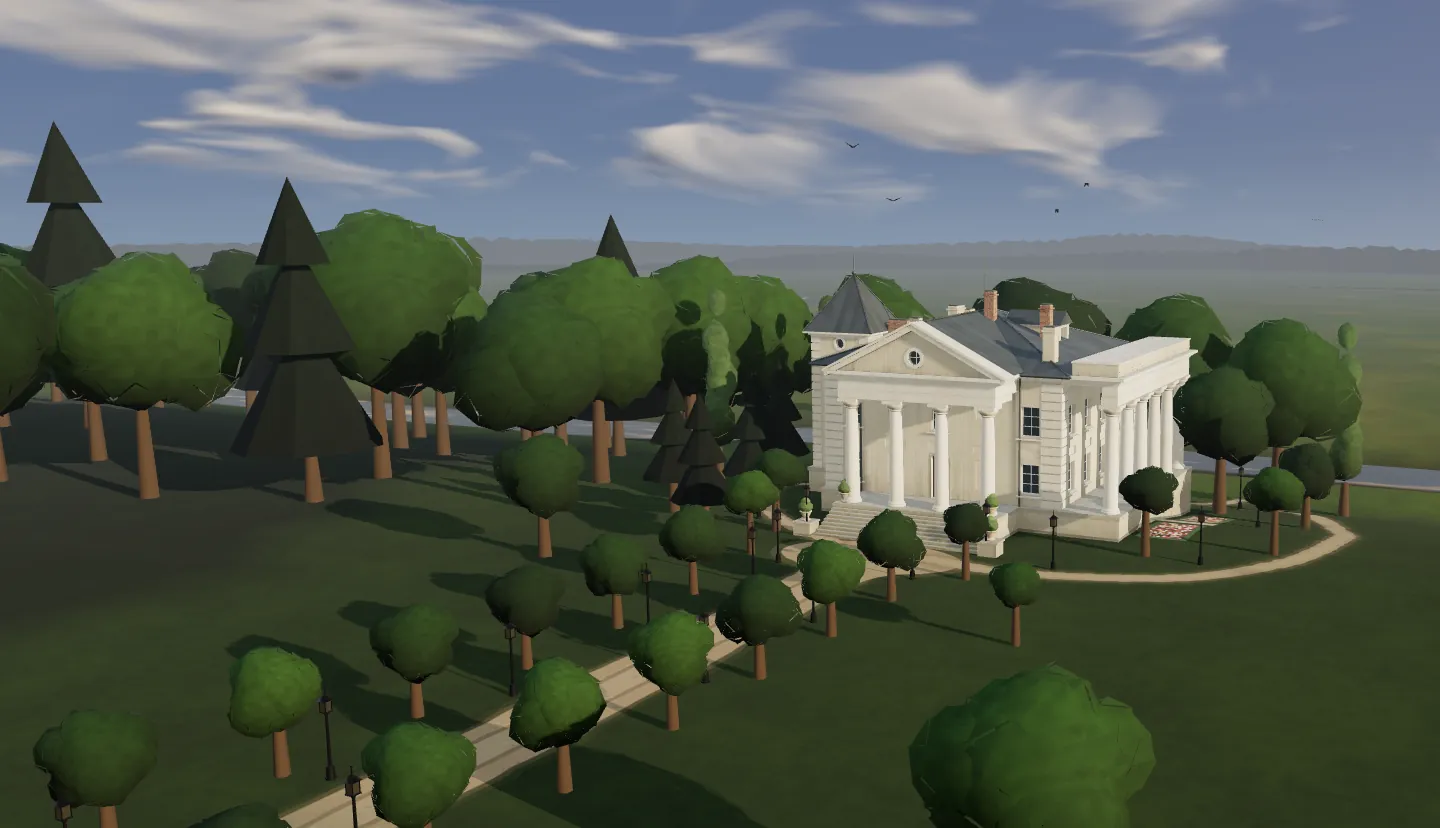
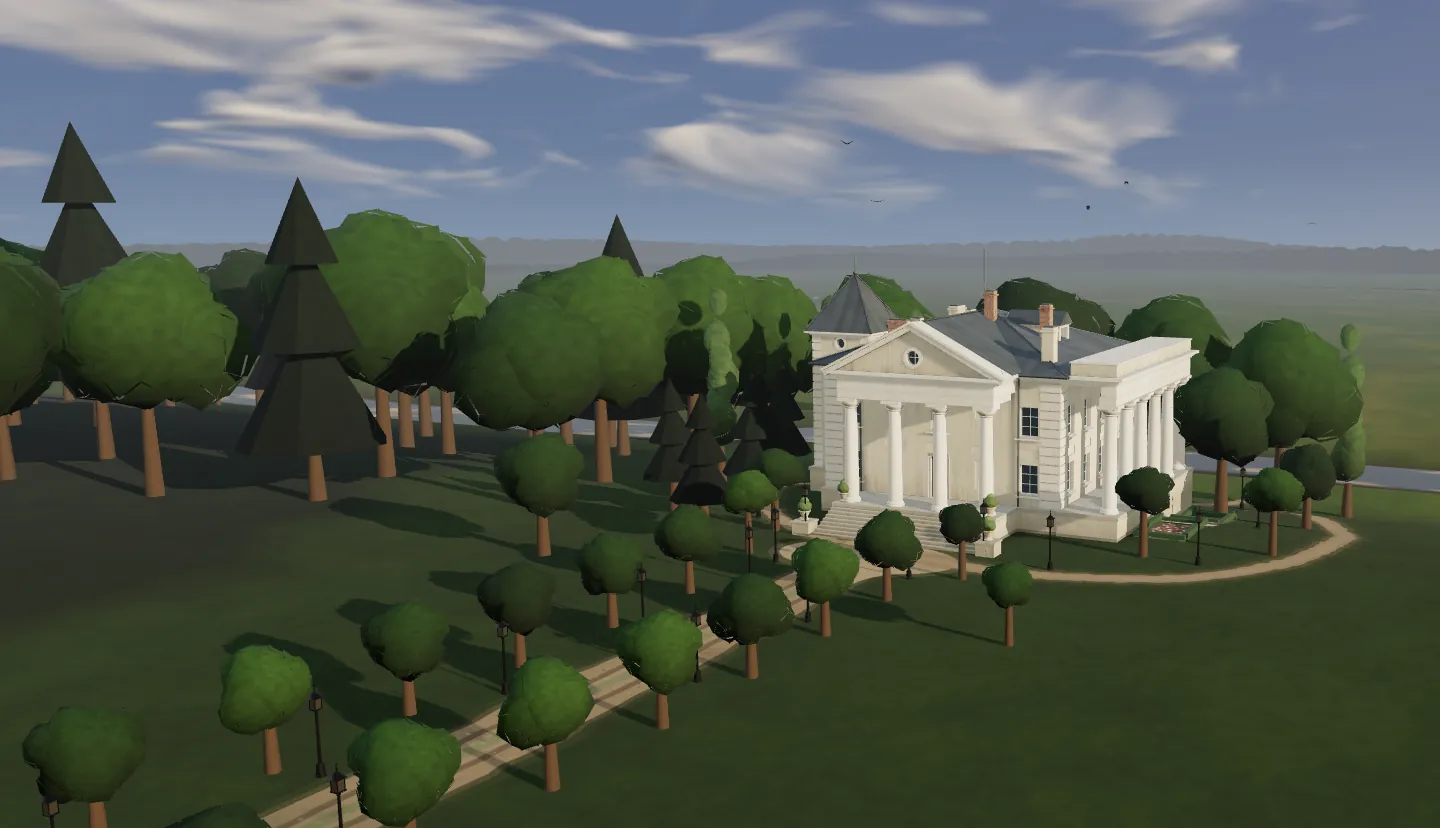
Обкладинка: ніч без прожекторів, ґрунтова алея, квітник у бордюрі з букса, тіні хмар на луках, вільний передній план
- ніч: замість прожекторів на фасаді — вікна, ліхтар під портиком і тьмяніші теплі ліхтарі алеї (олійні, 1914)
- алея: темніша ґрунтова дорога з колією й травою посередині
- квітник: низький бордюр із букса, приглушені пізні кольори
- тіні хмар пливуть луками вдень
- прибрано крону, що на першому кадрі сідала на підпис
- «Новинка · 3D-модель» → «3D-реконструкція»; підпис без висячого «років»; підказка «Потягніть» контрастніша
- нові постери день / вечір / ніч

Claude-Session: https://claude.ai/code/session_015E5VkhKKERkWtXctkqCkmF

diff --git a/hero-worobin.js b/hero-worobin.js
@@ -90,9 +90,9 @@ function attach(api, o){
   /* surface detail: grass tussocks, bare patches and furrows drawn from world position, fading with distance */
   terrM.userData.noSnow = true;
   terrM.onBeforeCompile = function(sh){
-    sh.uniforms.uWSnow = U.uWSnow; sh.uniforms.uAut = U.uAut;
+    sh.uniforms.uWSnow = U.uWSnow; sh.uniforms.uAut = U.uAut; sh.uniforms.uTime = U.uTime; sh.uniforms.uGlint = U.uGlint;
     sh.vertexShader = sh.vertexShader.replace('#include <common>', '#include <common>\nvarying vec3 vTW;').replace('#include <worldpos_vertex>', '#include <worldpos_vertex>\nvTW = (modelMatrix*vec4(transformed, 1.0)).xyz;');
-    sh.fragmentShader = sh.fragmentShader.replace('#include <common>', '#include <common>\nvarying vec3 vTW;\nuniform float uWSnow, uAut;\nfloat th(vec2 p){ return fract(sin(dot(p, vec2(127.1, 311.7)))*43758.5453); }\nfloat tn(vec2 p){ vec2 i = floor(p), f = fract(p); f = f*f*(3.0 - 2.0*f); return mix(mix(th(i), th(i + vec2(1, 0)), f.x), mix(th(i + vec2(0, 1)), th(i + vec2(1, 1)), f.x), f.y); }')
+    sh.fragmentShader = sh.fragmentShader.replace('#include <common>', '#include <common>\nvarying vec3 vTW;\nuniform float uWSnow, uAut, uTime, uGlint;\nfloat th(vec2 p){ return fract(sin(dot(p, vec2(127.1, 311.7)))*43758.5453); }\nfloat tn(vec2 p){ vec2 i = floor(p), f = fract(p); f = f*f*(3.0 - 2.0*f); return mix(mix(th(i), th(i + vec2(1, 0)), f.x), mix(th(i + vec2(0, 1)), th(i + vec2(1, 1)), f.x), f.y); }')
       .replace('#include <normal_fragment_maps>', '#include <normal_fragment_maps>\n{ float dn = length(vTW - cameraPosition); float kk = (1.0 - smoothstep(12.0, 70.0, dn))*.12; vec2 q = vTW.xz*2.4; float a0 = tn(q), ax = tn(q + vec2(.15, 0.0)), az = tn(q + vec2(0.0, .15)); normal = normalize(normal + (viewMatrix*vec4((a0 - ax)*kk*6.0, 0.0, (a0 - az)*kk*6.0, 0.0)).xyz); }')
       .replace('#include <color_fragment>', ['#include <color_fragment>',
         'float dd = length(vTW - cameraPosition), fd = 1.0 - smoothstep(60.0, 260.0, dd);',
@@ -107,7 +107,10 @@ function attach(api, o){
         /* autumn: the grass goes to straw and rust; winter: snow lies everywhere but thins in the furrows and under the trees */
         'diffuseColor.rgb = mix(diffuseColor.rgb, diffuseColor.rgb*vec3(1.42, 1.0, .5) + vec3(.014, .004, 0.0), uAut*(.68 + .32*g3));',
         'float snw = uWSnow*smoothstep(.12, .42, g1*.45 + g3*.55 + .12 - field*fur*.12);',
-        'diffuseColor.rgb = mix(diffuseColor.rgb, vec3(.80, .83, .88)*(.93 + .1*g2), snw);'].join('\n'));
+        'diffuseColor.rgb = mix(diffuseColor.rgb, vec3(.80, .83, .88)*(.93 + .1*g2), snw);',
+        /* shadows of the clouds drifting over the meadows and fields (by day only): the land is never one even green */
+        'float cl = tn(vTW.xz*.011 + vec2(uTime*.0045, uTime*.002))*.65 + tn(vTW.xz*.027 + vec2(uTime*.007, 0.0))*.35;',
+        'diffuseColor.rgb *= 1.0 - .26*uGlint*smoothstep(.52, .74, cl)*smoothstep(20.0, 45.0, length(vTW.xz - vec2(-3.4, -.4)));'].join('\n'));
   };
   var terrain = new T.Mesh(tg, terrM); terrain.receiveShadow = true; scene.add(terrain);
 
@@ -125,8 +128,9 @@ function attach(api, o){
     function line(pts, w, colr, jit){ K.save(); K.lineCap = K.lineJoin = 'round'; K.strokeStyle = colr; K.lineWidth = w*px; K.beginPath();
       pts.forEach(function(q, i){ var jx = jit ? (hash(q[0]*3.1, q[1]*1.7) - .5)*jit : 0, jz = jit ? (hash(q[1]*2.3, q[0]*4.1) - .5)*jit : 0; i ? K.lineTo(X(q[0] + jx), Z(q[1] + jz)) : K.moveTo(X(q[0] + jx), Z(q[1] + jz)); }); K.stroke(); K.restore(); }
     function path(pts, w, ruts){ var c = curve(pts);
-      line(c, w + 1.3, 'rgba(92,80,52,.16)', .5); line(c, w + .6, 'rgba(110,92,62,.4)', .35); line(c, w, '#8d7856', .2); line(c, w*.55, 'rgba(160,140,106,.35)');
-      if (ruts) [-1, 1].forEach(function(sd){ line(c.map(function(q){ return [q[0], q[1] + sd*w*.22]; }), .32, 'rgba(84,68,46,.45)', .15); }); }
+      line(c, w + 1.6, 'rgba(92,80,52,.14)', .7); line(c, w + .7, 'rgba(104,88,58,.38)', .45); line(c, w, '#7c6849', .3); line(c, w*.55, 'rgba(146,126,94,.3)');
+      if (ruts){ [-1, 1].forEach(function(sd){ line(c.map(function(q){ return [q[0], q[1] + sd*w*.22]; }), .42, 'rgba(70,56,38,.55)', .15); });
+        line(c, w*.16, 'rgba(92,104,58,.55)', .12); } }                                // grass between the wheel tracks
     path([[-72, 0], [-45.5, 0], [-19, 0]], 4.2, true);                                            // the drive from the road, between the limes
     K.fillStyle = 'rgba(105,88,60,.35)'; K.beginPath(); K.ellipse(X(-18.4), Z(0), 4.1*px, 6.5*px, 0, 0, 6.283); K.fill();
     K.fillStyle = '#8d7856'; K.beginPath(); K.ellipse(X(-18.4), Z(0), 3.4*px, 5.8*px, 0, 0, 6.283); K.fill();
@@ -141,7 +145,7 @@ function attach(api, o){
       rg2.addColorStop(0, Math.random() < .5 ? 'rgba(80,90,50,.28)' : 'rgba(70,56,38,.22)'); rg2.addColorStop(1, 'rgba(0,0,0,0)'); K.fillStyle = rg2; K.fillRect(px2 - pr, pz2 - pr, pr*2, pr*2); }
     K.restore();
     function bed(x0, z0, x1, z1){ K.fillStyle = '#5a4430'; K.fillRect(X(x0), Z(z0), (x1 - x0)*px, (z1 - z0)*px);
-      ['#c9563f', '#e3c26a', '#efe6d4', '#b8506e'].forEach(function(c){ K.fillStyle = c; for (var i = 0; i < 70; i++){ K.beginPath(); K.arc(X(x0 + .3 + Math.random()*(x1 - x0 - .6)), Z(z0 + .3 + Math.random()*(z1 - z0 - .6)), (.06 + Math.random()*.06)*px, 0, 6.283); K.fill(); } });
+      ['#a65a44', '#c4a35c', '#d8cfbb', '#94586a'].forEach(function(c){ K.fillStyle = c; for (var i = 0; i < 34; i++){ K.beginPath(); K.arc(X(x0 + .3 + Math.random()*(x1 - x0 - .6)), Z(z0 + .3 + Math.random()*(z1 - z0 - .6)), (.06 + Math.random()*.06)*px, 0, 6.283); K.fill(); } });
       K.strokeStyle = '#3f5a2c'; K.lineWidth = .32*px; K.strokeRect(X(x0), Z(z0), (x1 - x0)*px, (z1 - z0)*px); }
     K.fillStyle = '#a5946f'; K.fillRect(X(-1), Z(12.4), 2*px, 4.2*px); bed(-7, 13.2, -1.6, 16.2); bed(1.6, 13.2, 7, 16.2);
     K.save(); K.globalCompositeOperation = 'destination-in';                          // soft outer edge
@@ -152,6 +156,18 @@ function attach(api, o){
     var t = new T.CanvasTexture(cv); t.encoding = T.sRGBEncoding; t.anisotropy = 8;
     var m = new T.Mesh(g, new T.MeshStandardMaterial({map: t, transparent: true, depthWrite: false, roughness: 1, polygonOffset: true, polygonOffsetFactor: -2, polygonOffsetUnits: -2}));
     m.receiveShadow = true; m.renderOrder = 1; scene.add(m);
+  })();
+
+  /* the parterre before the colonnade is edged with low clipped box, so the beds stand up from the lawn instead of lying on it like a rug */
+  (function(){
+    var boxM = new T.MeshStandardMaterial({color: '#34492a', roughness: .95}), parts = [];
+    [[-7, 13.2, -1.6, 16.2], [1.6, 13.2, 7, 16.2]].forEach(function(b){
+      [[b[0], b[1], b[2], b[1]], [b[0], b[3], b[2], b[3]], [b[0], b[1], b[0], b[3]], [b[2], b[1], b[2], b[3]]].forEach(function(e){
+        var len = Math.hypot(e[2] - e[0], e[3] - e[1]) + .34, g = new T.BoxGeometry(e[1] === e[3] ? len : .34, .42, e[1] === e[3] ? .34 : len);
+        var cx = (e[0] + e[2])/2, cz = (e[1] + e[3])/2; g.translate(cx, H(cx, cz) + .2, cz); parts.push(g.index ? g.toNonIndexed() : g); }); });
+    var P = [], N = []; parts.forEach(function(g){ P.push.apply(P, g.attributes.position.array); N.push.apply(N, g.attributes.normal.array); });
+    var g2 = new T.BufferGeometry(); g2.setAttribute('position', new T.Float32BufferAttribute(P, 3)); g2.setAttribute('normal', new T.Float32BufferAttribute(N, 3));
+    var hedge = new T.Mesh(g2, boxM); hedge.castShadow = hedge.receiveShadow = true; scene.add(hedge);
   })();
 
   /* ── water: the Horyn and the ponds; ripples drift downstream (north), the sky glints off them ── */
@@ -285,6 +301,8 @@ function attach(api, o){
     var ddx = x2 - GX, ddz = z2 - GZ, lawnSide = (ddx < 0 && ddz > -30 && rh < 150) || (ddz > 0 && rh < 120);   // the open lawn the camera looks across
     var oldK = pk && rh < 200 && !lawnSide ? 2.15 + .5*rnd() : pk && !lawnSide ? 1.5 : 1;
     if (oldK > 2 && rnd() < .3) continue;                                            // bigger crowns, a few fewer of them
+    var cdx = x2 + 88, cdz = z2 - 37, along = cdx*.915 - cdz*.402, side = cdx*.402 + cdz*.915;   // the first view: from (−88, 37) toward the house
+    if (along > 0 && along < 58 && side > -4 && side < 26) continue;                 // keep the near lawn clear, so no crown sits on the caption
     add(rnd() < (pk ? .18 : .3) ? 'cone' : 'blob', x2, z2, (1.7 + rnd()*1.2)*Math.min(1.8, .75 + .25*big)*oldK, pk ? 1 : 0);
   }
   /* hedgerows and lone trees on the fields and meadows */
@@ -318,7 +336,7 @@ function attach(api, o){
   /* ── lanterns along the drive and round the forecourt: cast-iron posts with glazed lantern heads. At night every lantern,
      and every lit window of the house, really lights what is round it: a small light loop in the shaders of the ground, the trees,
      the paths and the house adds a warm, quickly fading light from each of them (no shadow maps, so it stays cheap) ── */
-  var LAMPC = {value: lin('#ffd09a')}, LAMPK = {value: 0}, LAMPP = [], lampsK = 0;
+  var LAMPC = {value: lin('#ffc27e')}, LAMPK = {value: 0}, LAMPP = [], lampsK = 0;
   var lanterns = (function(){
     var P = [];
     for (var lx = -26; lx >= -64; lx -= 9.5){ P.push([lx, -3.3]); P.push([lx - 4.75, 3.3]); }
@@ -350,7 +368,7 @@ function attach(api, o){
     var coreM = new T.PointsMaterial({map: halo([[0, 'rgba(255,240,210,1)'], [.3, 'rgba(255,210,140,.7)'], [1, 'rgba(255,180,90,0)']]), size: .9, transparent: true, depthWrite: false, blending: T.AdditiveBlending, opacity: 0, sizeAttenuation: true});
     var bloomM = new T.PointsMaterial({map: halo([[0, 'rgba(255,200,120,.55)'], [.35, 'rgba(255,170,90,.18)'], [1, 'rgba(255,150,70,0)']]), size: 5.5, transparent: true, depthWrite: false, blending: T.AdditiveBlending, opacity: 0, sizeAttenuation: true});
     var core = new T.Points(gg, coreM), bloom = new T.Points(gg, bloomM); core.renderOrder = 5; bloom.renderOrder = 4; scene.add(bloom); scene.add(core);
-    return {set: function(v){ glassM.emissiveIntensity = 3.2*v; coreM.opacity = v; bloomM.opacity = .8*v; core.visible = bloom.visible = v > .01; }};
+    return {set: function(v){ glassM.emissiveIntensity = 2.1*v; coreM.opacity = .8*v; bloomM.opacity = .5*v; core.visible = bloom.visible = v > .01; }};   // oil lamps of 1914, not street lights
   })();
   /* the lit windows of the house throw a little light out onto the portico, the steps and the lawn */
   (function(){
@@ -720,7 +738,7 @@ function attach(api, o){
       exposure: (.62 + .16*twi + .3*day + .22*night)*(1 - .1*SW)*(1 - .16*OC - .08*WXc.rain), env: .08 + .12*twi + .3*day, lamps: 1 - ss2(-5, 1.5, alt)});
     hemi2.color.copy(P[1]).lerp(new T.Color('#6a7cb0'), night*.6); hemi2.groundColor.set(alt > 0 ? '#3a3420' : '#141826'); hemi2.intensity = .12 + .24*day + .16*(1 - day)*twi + .42*night;
     birds.forEach(function(b){ b.visible = alt > -6 && WXc.rain < .35 && WXc.fog < .6 && WXc.storm < .3; });
-    lampsK = Math.max(1 - ss2(-5, 1.5, alt), .85*OC*(1 - ss2(4, 14, alt))); lanterns.set(lampsK); LAMPK.value = lampsK;
+    lampsK = Math.max(1 - ss2(-5, 1.5, alt), .85*OC*(1 - ss2(4, 14, alt))); lanterns.set(lampsK); LAMPK.value = .7*lampsK;
     baseExp = renderer.toneMappingExposure; WXc.day = day; WXc.night = night;
     api.heroSun = s;
   }

diff --git a/index.html b/index.html
@@ -115,7 +115,7 @@ a, button, [role="button"], input, select, textarea,
 .hx-land .hx-cap{left:auto;right:max(2rem,calc((100vw - 1240px)/2));bottom:2.2rem;width:min(620px,46vw);z-index:2;text-shadow:0 1px 12px rgba(10,8,4,.7)}
 }
 .hx-new{position:absolute;left:3%;top:3%;display:inline-flex;align-items:center;gap:.55rem;padding:.45rem .85rem .45rem .7rem;border-radius:999px;background:rgba(23,18,11,.55);border:1px solid rgba(212,178,90,.38);backdrop-filter:blur(8px);-webkit-backdrop-filter:blur(8px);font:600 .66rem var(--ds-body);letter-spacing:.16em;text-transform:uppercase;color:#f4e9c8;pointer-events:none}
-.hx-new i{width:7px;height:7px;border-radius:50%;background:var(--ds-gold-hi);box-shadow:0 0 0 0 rgba(212,178,90,.6);animation:hxPing 2.2s infinite}
+.hx-new i{width:7px;height:7px;border-radius:50%;background:var(--ds-gold-hi)}
 @keyframes hxPing{0%{box-shadow:0 0 0 0 rgba(212,178,90,.55)}70%{box-shadow:0 0 0 9px rgba(212,178,90,0)}100%{box-shadow:0 0 0 0 rgba(212,178,90,0)}}
 .hx-cap{position:absolute;left:3%;right:3%;bottom:1.2rem;display:flex;justify-content:space-between;align-items:flex-end;gap:1rem;pointer-events:none}
 .hx-cap>*{pointer-events:auto}
@@ -124,7 +124,7 @@ a, button, [role="button"], input, select, textarea,
 .hx-full{display:inline-flex;align-items:center;gap:.5rem;flex:0 0 auto;padding:.65rem 1.05rem;border-radius:999px;border:1px solid rgba(244,233,200,.24);background:rgba(23,18,11,.55);backdrop-filter:blur(8px);-webkit-backdrop-filter:blur(8px);font:600 .76rem var(--ds-body);color:#f4e9c8;text-decoration:none;transition:border-color .2s,background .2s}
 .hx-full:hover{border-color:var(--ds-gold-hi);background:rgba(23,18,11,.75)}
 .hx-full svg{width:15px;height:15px}
-.hx-hint{position:absolute;right:3%;top:3%;height:2.1rem;display:flex;align-items:center;gap:.45rem;margin:0;font:400 .74rem var(--ds-body);color:rgba(244,233,200,.55);white-space:nowrap;pointer-events:none;opacity:0;transition:opacity .6s}
+.hx-hint{position:absolute;right:3%;top:3%;height:2.1rem;display:flex;align-items:center;gap:.45rem;margin:0;font:400 .74rem var(--ds-body);color:rgba(244,233,200,.85);text-shadow:0 1px 8px rgba(10,8,4,.75);white-space:nowrap;pointer-events:none;opacity:0;transition:opacity .6s}
 .hx-hint svg{width:16px;height:16px}
 .hx-stage.live .hx-hint{opacity:1}.hx-stage.touched .hx-hint{opacity:0}
 .hx-stage.nogl .hx-hint{display:none}
@@ -330,10 +330,10 @@ a, button, [role="button"], input, select, textarea,
             <div class="hx-stage" id="hxStage">
                 <img class="hx-poster" src="worobin-3d-poster.webp" alt="Павільйон «Бібліотека» у Воробині — 3D-реконструкція" width="1100" height="1100" fetchpriority="high">
                 <canvas class="hx-3d" id="hx3d" tabindex="-1" aria-label="3D-реконструкція павільйону «Бібліотека» у Воробині. Потягніть убік, щоб обернути."></canvas>
-                <span class="hx-new"><i></i>Новинка · 3D-модель</span>
+                <span class="hx-new"><i></i>3D-реконструкція</span>
                 <p class="hx-hint" id="hxHint"><svg viewBox="0 0 20 20" fill="none" stroke="currentColor" stroke-width="1.5" stroke-linecap="round" stroke-linejoin="round" aria-hidden="true"><path d="M3 10c0-2 3-3.5 7-3.5s7 1.5 7 3.5-3 3.5-7 3.5"/><path d="M12 11.4 10 13.5l2 2.1"/></svg>Потягніть, щоб обернути</p>
                 <div class="hx-cap">
-                    <div><b id="hxTitle">«Бібліотека» Плятерів у Воробині</b><small id="hxSub">павільйон, що не зберігся · 3D за світлинами 1914 і 1937 років</small></div>
+                    <div><b id="hxTitle">«Бібліотека» Плятерів у Воробині</b><small id="hxSub">павільйон, що не зберігся · 3D за світлинами 1914 і&nbsp;1937&nbsp;років</small></div>
                     <a class="hx-full" id="hxFull" href="worobin-3d.html">Розглянути зблизька <svg viewBox="0 0 16 16" fill="none" stroke="currentColor" stroke-width="1.6" stroke-linecap="round" stroke-linejoin="round" aria-hidden="true"><path d="M2.5 6V2.5H6M13.5 6V2.5H10M2.5 10v3.5H6M13.5 10v3.5H10"/></svg></a>
                 </div>
             </div>
@@ -350,9 +350,9 @@ a, button, [role="button"], input, select, textarea,
                          sub: "збудована 1861 · пам'ятка національного значення", alt: 'Церква Різдва Пресвятої Богородиці в Дубровиці — 3D-модель',
                          aria: '3D-модель церкви Різдва Богородиці. Потягніть убік, щоб обернути.', opts: {view: [-50, 14, 46], targetY: 13.2, fit: innerWidth < 980 ? 1.04 : 1.0}},
                 worobin: {js: 'worobin-3d.js', g: 'Worobin3D', poster: 'worobin-3d-poster.webp', href: 'worobin-3d.html', title: '«Бібліотека» Плятерів у Воробині',
-                         sub: 'павільйон, що не зберігся · 3D за світлинами 1914 і 1937 років', alt: 'Павільйон «Бібліотека» у Воробині — 3D-реконструкція',
-                         aria: '3D-реконструкція павільйону «Бібліотека» у Воробині серед краєвиду над Горинню. Потягніть убік, щоб обернути.', land: 'hero-worobin.js', landPoster: (function(){ var h = +new Date().toLocaleString('en-GB', {timeZone: 'Europe/Kyiv', hour: '2-digit', hour12: false}); return 'worobin-land-' + (h < 6 || h >= 20 ? 'night' : h < 8 || h >= 17 ? 'eve' : 'day') + '.webp?v=2'; })(),
-                         opts: {glb: innerWidth < 980 || (navigator.deviceMemory || 8) < 4 ? 'worobin-1k.glb?v=20261019c' : 'worobin-2k.glb?v=20261019c', view: [-46, 8, 22], targetY: 6.5, fit: innerWidth < 980 ? 1.3 : 1.85, turntable: false, floodK: .6}},
+                         sub: 'павільйон, що не зберігся · 3D за світлинами 1914 і\u00a01937\u00a0років', alt: 'Павільйон «Бібліотека» у Воробині — 3D-реконструкція',
+                         aria: '3D-реконструкція павільйону «Бібліотека» у Воробині серед краєвиду над Горинню. Потягніть убік, щоб обернути.', land: 'hero-worobin.js', landPoster: (function(){ var h = +new Date().toLocaleString('en-GB', {timeZone: 'Europe/Kyiv', hour: '2-digit', hour12: false}); return 'worobin-land-' + (h < 6 || h >= 20 ? 'night' : h < 8 || h >= 17 ? 'eve' : 'day') + '.webp?v=4'; })(),
+                         opts: {glb: innerWidth < 980 || (navigator.deviceMemory || 8) < 4 ? 'worobin-1k.glb?v=20261019c' : 'worobin-2k.glb?v=20261019c', view: [-46, 8, 22], targetY: 6.5, fit: innerWidth < 980 ? 1.3 : 1.85, turntable: false, floodK: .1}},
                 mykolai: {js: 'mykolai-3d.js', g: 'Mykolai3D', poster: 'mykolai-3d-poster.webp', href: 'mykolai-3d.html', title: 'Свято-Миколаївська церква',
                          sub: "дерев'яна, збудована 1872 коштом парафіян", alt: 'Свято-Миколаївська церква в Дубровиці — 3D-модель',
                          aria: '3D-модель Свято-Миколаївської церкви. Потягніть убік, щоб обернути.', opts: {view: [-38, 13, 44], targetY: 7.4, fit: innerWidth < 980 ? 1.0 : .92}}
@@ -1697,11 +1697,11 @@ g.ULB={open:open,close:close,nav:nav,
   function idle(f){ (window.requestIdleCallback || function(g){ setTimeout(g, 250); })(f, { timeout: 1200 }); }
   function mount3d(){
     var m = window.__hx3d; if (!m){ st.classList.add('nogl'); return; }
-    var sc = document.createElement('script'); sc.src = m.js + '?v=20261125a'; sc.async = true;
+    var sc = document.createElement('script'); sc.src = m.js + '?v=20261125b'; sc.async = true;
     sc.onerror = function(){ st.classList.add('nogl'); };
     sc.onload = function(){
       var G = window[m.g]; if (!G){ st.classList.add('nogl'); return; }
-      var land = m.land ? new Promise(function(res){ var ls = document.createElement('script'); ls.src = m.land + '?v=20261125a'; ls.async = true; ls.onload = res; ls.onerror = function(){ res(); }; document.head.appendChild(ls); }) : Promise.resolve();
+      var land = m.land ? new Promise(function(res){ var ls = document.createElement('script'); ls.src = m.land + '?v=20261125b'; ls.async = true; ls.onload = res; ls.onerror = function(){ res(); }; document.head.appendChild(ls); }) : Promise.resolve();
       var wide = function(){ return innerWidth > 980; };
       G.mount(cv, Object.assign({ zoom: false, touch: 'pan-y', pixelRatio: m.land ? (wide() ? 1.35 : 1.6) : 1.75, shadow: innerWidth < 700 ? 1024 : 2048, motes: !m.land, autoRotateSpeed: m.land ? .35 : .55,
         onStart: function(){ st.classList.add('touched'); },
